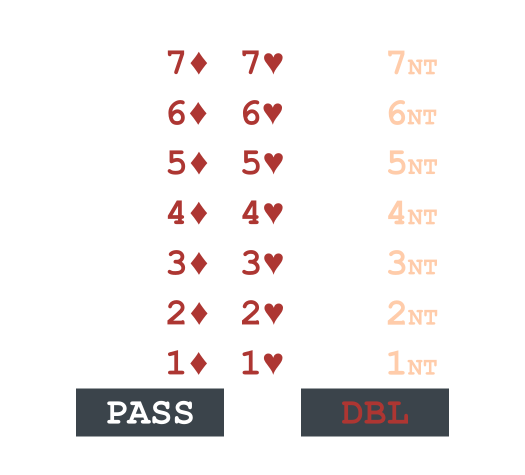
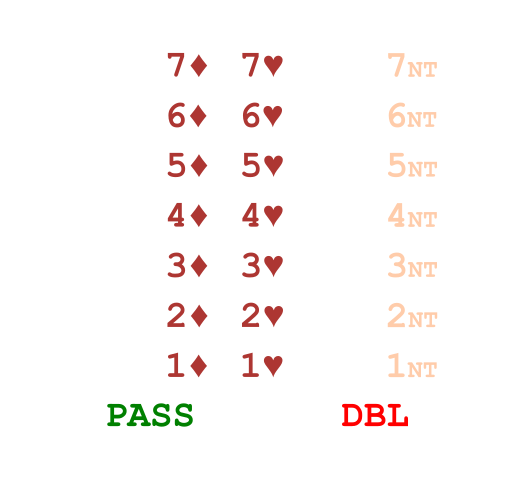
fixed coloring issue

diff --git a/cardgame.py b/cardgame.py
@@ -42,6 +42,9 @@ LOBBY_HEIGHT = 720
 LOBBY_TITLE = "Bridge: Lobby"
 LOBBY_SCALE = min(LOBBY_HEIGHT/1080, LOBBY_WIDTH/1920)
 
+# Visual appearance
+MAIN_COLOR = (17, 53, 65, 255)
+
 
 
 # ──[ Classes ]────────────────────────────────────────────────────────────────
@@ -202,7 +205,7 @@ class Game(arcade.View):
         self.player_position = position if position is not None else "north"
 
         # Play mat colour
-        self.background_color = self.background_color = (17, 53, 65) # arcade.color.ARSENIC
+        self.background_color = MAIN_COLOR # arcade.color.ARSENIC
         
         # Sound effects
         self.sound_slide = arcade.load_sound(r'assets/effects/slide.mp3')
@@ -568,7 +571,7 @@ class Game(arcade.View):
         for tile in self.tile_list:
             bid_ordinal = self.get_bid_ordinal(tile.level, tile.suit)
             if bid_ordinal <= contract_ordinal and tile.type == "normal":
-                tile.color = arcade.color.ARSENIC
+                tile.color = MAIN_COLOR
         
                 
         
